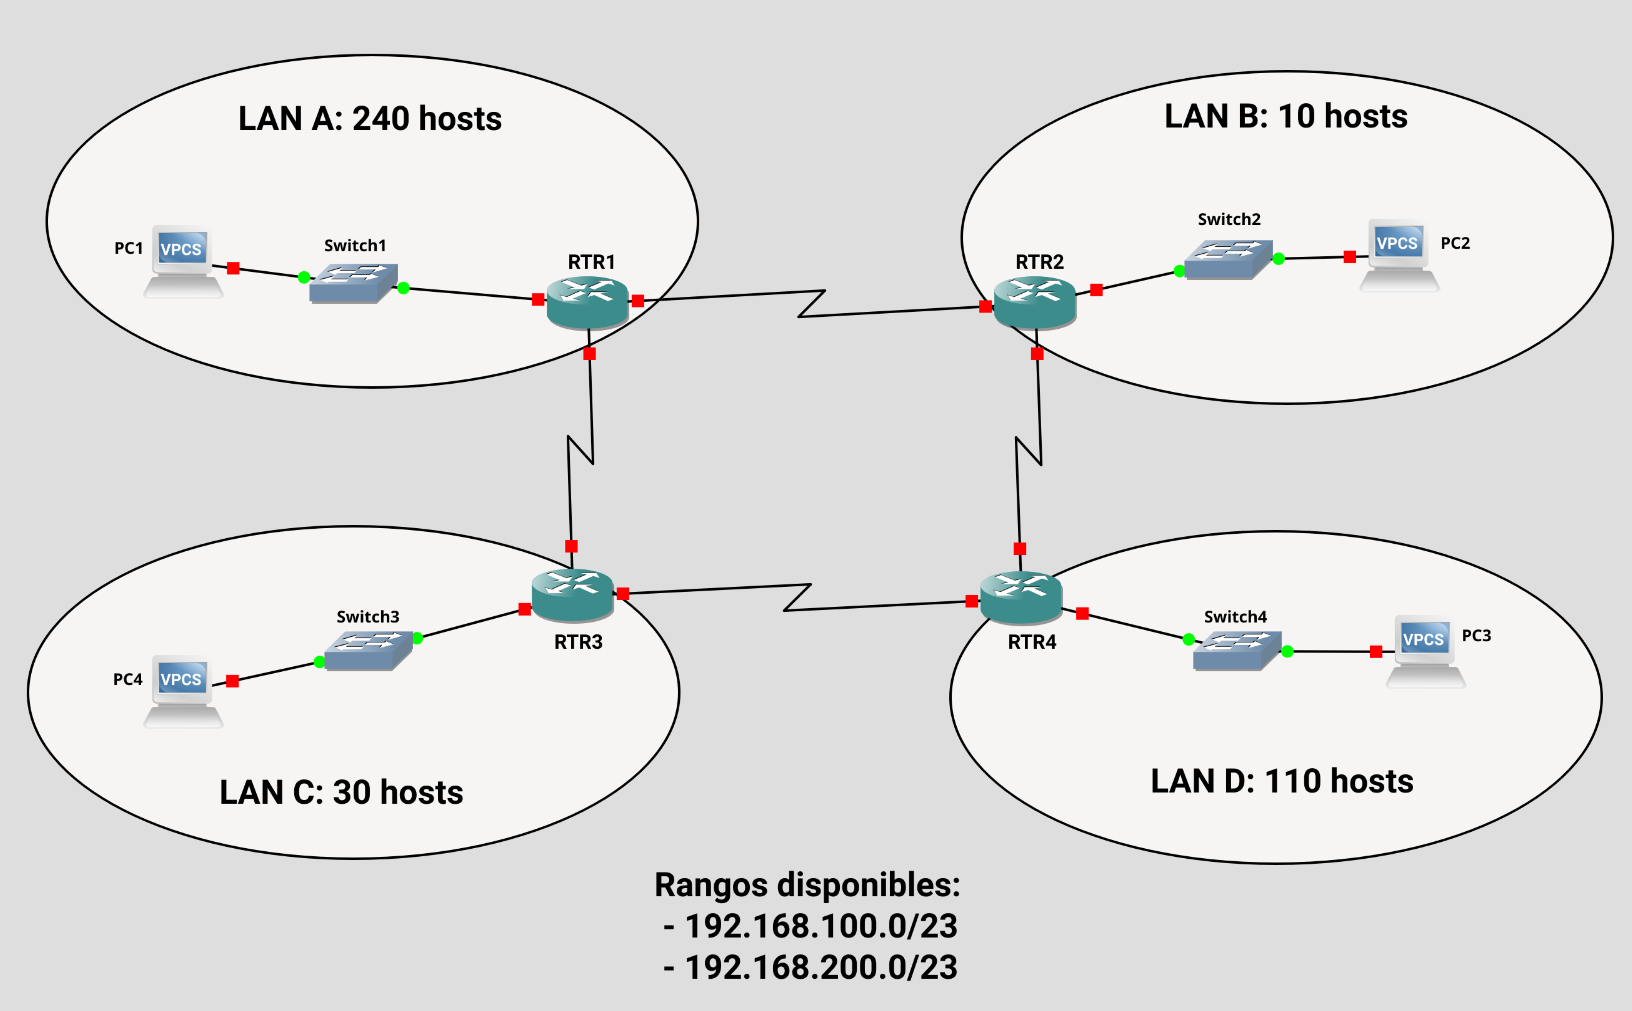
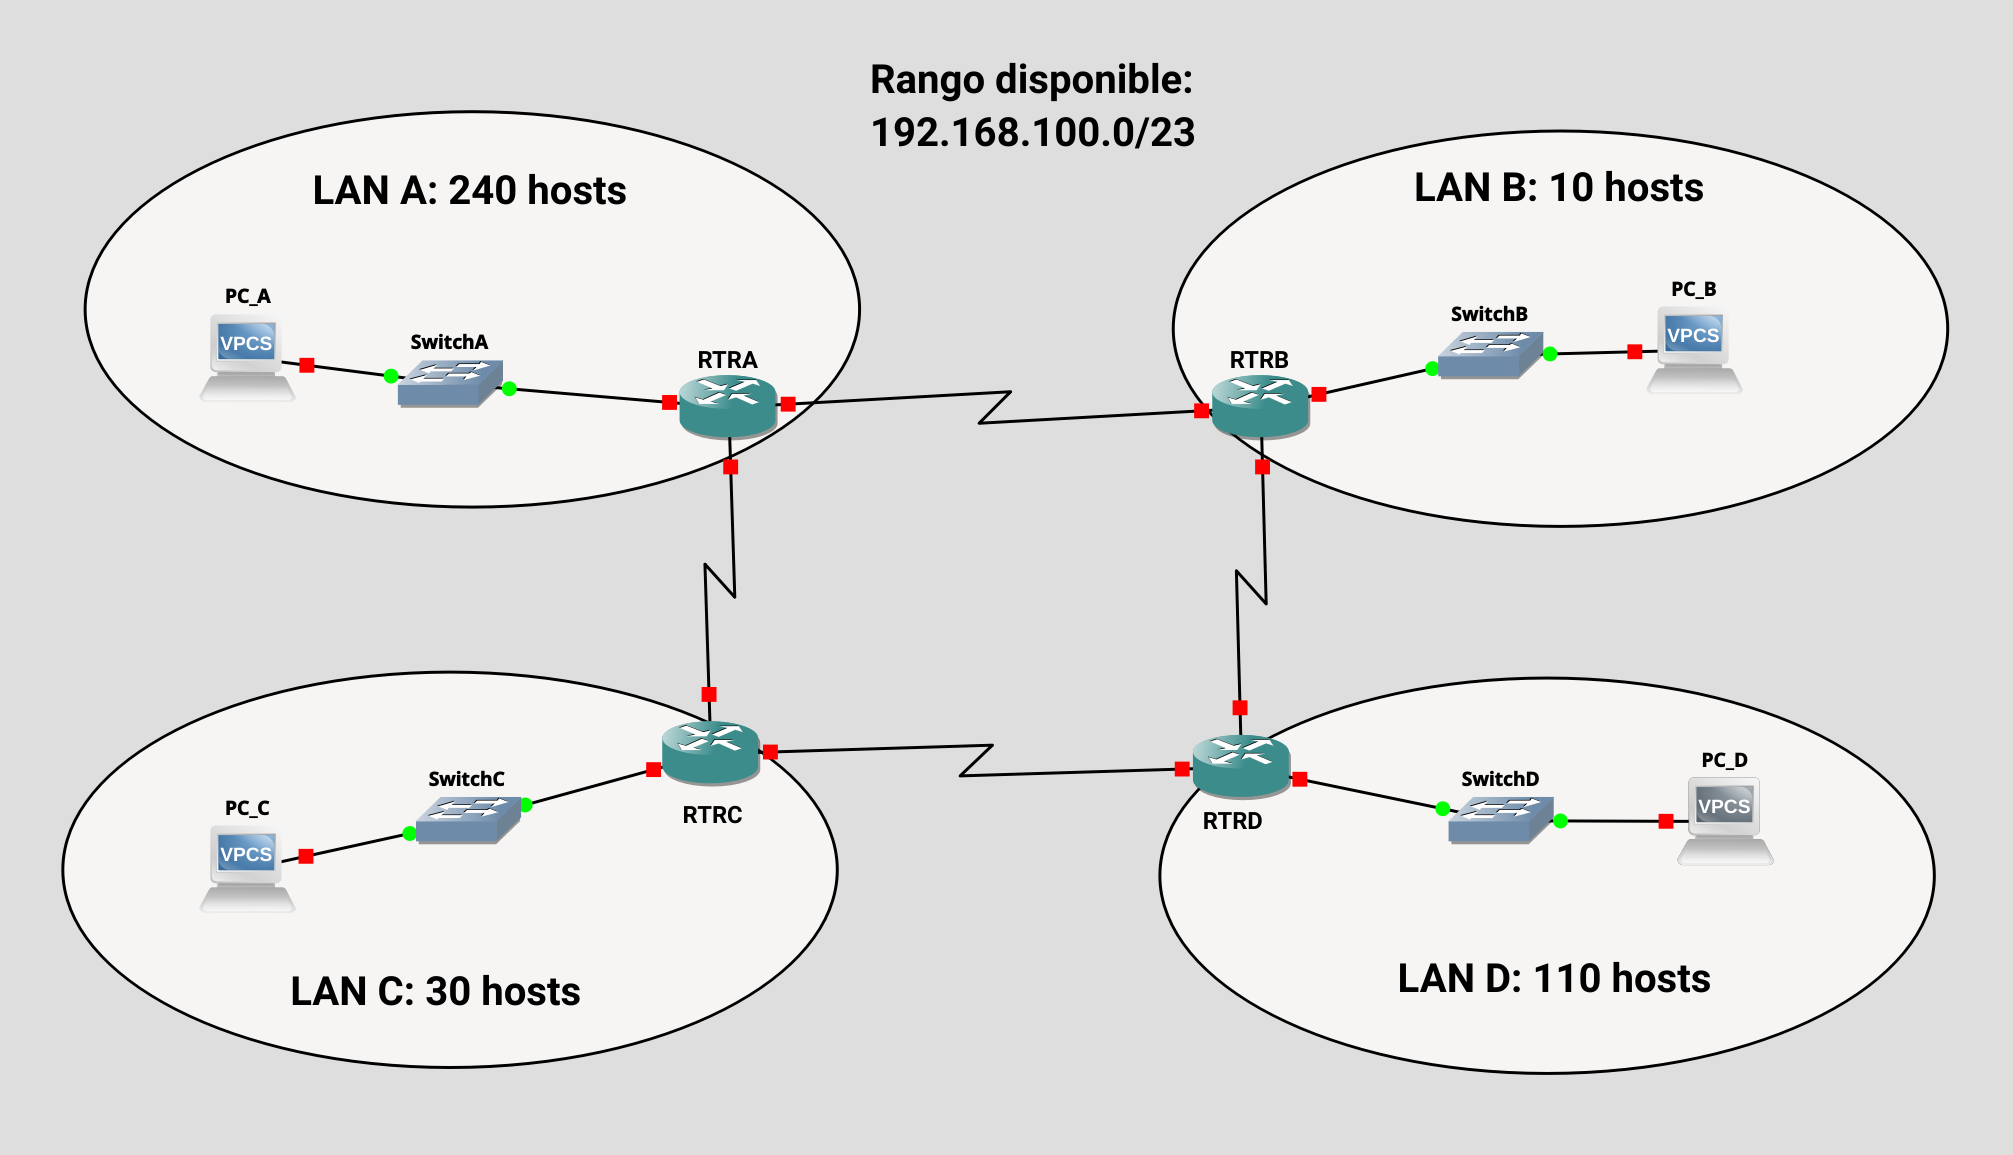
con lab 4

diff --git a/Laboratorio 4/Laboratorio4_Red.tex b/Laboratorio 4/Laboratorio4_Red.tex
@@ -9,6 +9,7 @@
 \usepackage{graphicx}
 \usepackage{fancyhdr}
 \usepackage{minted}
+\usepackage{enumitem}
 \usepackage[svgnames]{xcolor}
 \setminted{style=default,bgcolor=Gainsboro}
 \usepackage[allcolors={DarkSlateBlue}, colorlinks]{hyperref}
@@ -17,48 +18,55 @@
 \fancyhead[L]{\includegraphics[height=35px]{../figuras/logoort.png}}
 \fancyhead[R]{Facultad de Ingeniería \\ Cátedra de Redes y Sistemas de Comunicación}
 \fancyfoot[R]{Página \thepage}
-\fancyfoot[L]{Redes de Datos -- Laboratorio 3}
+\fancyfoot[L]{Redes -- Laboratorio 4}
 \renewcommand{\footrulewidth}{0.2pt}
 \renewcommand{\headrulewidth}{0.2pt}
 
 \pagestyle{fancy}
 
 
-\title{\bf Redes de Datos\\Laboratorio 4 -- Capa de Red\\ Direccionamiento y ruteo estático}
+\title{\bf Redes\\Laboratorio 4 -- Capa de Red\\ Direccionamiento y ruteo estático}
 \author{\bf Universidad ORT Uruguay}
-\date{\bf Curso 2025}
+\date{\bf Curso 2026}
 
 \begin{document}
 
 \maketitle
 \thispagestyle{fancy}
 
-En este laboratorio trabajaremos a nivel de Capa de Red, utilizando equipos Cisco disponibles en el Laboratorio. Los objetivos son:
+En este laboratorio trabajaremos a nivel de Capa de Red, configurando de forma completa la asignación de direcciones y ruteo interno estático de una red de tipo empresarial. En particular los objetivos son:
 
 \begin{itemize}
     \item Realizar una asignación de direcciones de una topología dada.
     \item Configurar dicha asignación en los equipos, tanto routers como hosts, de manera de implementar la capa de red.
     \item Realizar la configuración de rutas estáticas para lograr conectividad en toda la topología.
+    \item Probar dicha conectividad mediante paquetes de prueba ICMP usando el comando \texttt{ping <IP destino>}.
 \end{itemize}
 
-Para ello, disponemos en el laboratorio de Routers pre-cableados en topología de anillo, utilizando enlaces \textbf{seriales} punto a punto. Los routers disponen además de interfaces \textbf{Ethernet} (FastEthernet o GigabitEthernet, según el modelo). Sin embargo, los routers inicialmente tienen todas sus interfaces apagadas y sin configurar.
+La práctica puede realizarse de dos maneras:
 
-La topología del laboratorio es la siguiente:
+\begin{enumerate}[label={\bf \alph*)}]
+    \item Utilizando los equipos Cisco disponibles en el laboratorio de Redes. Dichos Routers se encuentran pre-cableados en topología de anillo, utilizando enlaces \textbf{seriales} punto a punto. Los routers disponen además de interfaces \textbf{Ethernet} (FastEthernet o GigabitEthernet, según el modelo). Sin embargo, los routers inicialmente tienen todas sus interfaces apagadas y sin configurar (tal como vienen de fábrica). Disponemos de dos anillos de 4 Routers y uno de 3 Routers, así como Switches para implementar las redes locales.
+    
+    En este caso, cada grupo configurará un único Router, así como los equipos conectados directamente al mismo, poniéndose de acuerdo con los restantes equipos del mismo anillo cuál es la configuración correcta de modo de que la red quede coherentemente configurada.
 
-\bigskip
-
-\begin{center}
-    \includegraphics[width=0.85\textwidth]{../figuras/topologia_lab.png}
-\end{center}
-
-Durante la práctica, cada grupo se encargará de configurar \emph{un único router} y su LAN asociada. Sin embargo, debe coordinar con sus compañeros para que la asignación de direcciones y rutas sea \emph{coherente}.
-
-\vfill
+    \item Utilizando el simulador \href{https://www.gns3.com/}{\bf GNS3} que permite emular en una PC de escritorio una topología de red dada, creando máquinas virtuales que emulan el funcionamiento de los Routers y su sistema operativo. Se proveen en la página del curso archivos de tipo \emph{portable GNS3 project} con topologías similares a las de laboratorio. En este caso, el equipo deberá configurar \emph{toda la topología} para que quede funcionando.
+    
+\end{enumerate}
 
 \section{Asignación de direcciones}
 
-Realice una asignación de direcciones completa para las redes de área local de la figura, así como para los enlaces punto a punto entre routers, utilizando el rango provisto. Complete las siguientes tablas
-    
+\subsection{Topología de 4 routers}
+
+\begin{figure}
+    \begin{center}
+    \includegraphics[width=0.95\textwidth]{../figuras/topologia_lab.png}
+    \end{center}
+    \caption{Topología de Red de 4 routers con rangos a asignar.}\label{fig:topologia}
+\end{figure}
+
+Realice una asignación de direcciones completa para las redes de área local de la Figura \ref{fig:topologia}, así como para los enlaces punto a punto entre routers, utilizando el rango provisto. Complete las siguientes tablas
+
     \begin{center}
         \bigskip
         \begin{tabular}{|p{1cm}|p{3cm}|p{3cm}|p{3cm}|p{3cm}|}
@@ -76,25 +84,66 @@ Realice una asignación de direcciones completa para las redes de área local de
         \begin{tabular}{|p{2cm}|p{2.5cm}|p{2.5cm}|p{2.6cm}|p{2.4cm}|p{2.4cm}|}
             \hline
             \textbf{Enlace} & \textbf{Dirección de red} & \textbf{Máscara} & \textbf{Dir. de broadcast} & \textbf{IP Router A} & \textbf{IP Router B} \\ \hline
-            \textbf{RTR1--RTR2} & & & & & \\ \hline
-            \textbf{RTR2--RTR3} & & & & & \\ \hline
-            \textbf{RTR3--RTR4} & & & & & \\ \hline
-            \textbf{RTR4--RTR1} & & & & & \\ \hline
+            \textbf{RTRA--RTRB} & & & & & \\ \hline
+            \textbf{RTRA--RTRC} & & & & & \\ \hline
+            \textbf{RTRB--RTRD} & & & & & \\ \hline
+            \textbf{RTRC--RTRD} & & & & & \\ \hline
         \end{tabular}
     \bigskip
     \end{center}
 
-    Comparta la asignación realizada con el resto de los grupos de su topología de modo de llegar a una asignación coherente.
+\subsection{Topología de 3 routers}
 
-\section{Configuración de interfaces en los routers}
+    Modifique ahora la asignación anterior para el caso en que hay solo 3 routers, asumiendo que la LAN D y la LAN B son una única LAN con 120 hosts.
 
-Para conectarse a los routers, debe accederse a los mismos mediante su \emph{consola de configuración}. Típicamente esto se realiza mediante un cable dedicado y una conexión serial. Para simplificar este proceso, en el laboratorio se dispone de un equipo Cisco remotizador de consolas. Para acceder al Router RTRX, se debe ingresar via \texttt{telnet} al remotizador, y luego acceder a la consola del Router deseado mediante:
+        \begin{center}
+        \bigskip
+        \begin{tabular}{|p{1cm}|p{3cm}|p{3cm}|p{3cm}|p{3cm}|}
+            \hline
+            \textbf{Red} & \textbf{Dirección de red} & \textbf{Máscara} & \textbf{Dir. de broadcast} & \textbf{IP Router} \\ \hline
+            \textbf{LAN A} & & & & \\ \hline
+            \textbf{LAN B} & & & & \\ \hline
+            \textbf{LAN C} & & & & \\ \hline
+        \end{tabular}
+    \end{center}
+
+    \bigskip
+    \begin{center}
+        \begin{tabular}{|p{2cm}|p{2.5cm}|p{2.5cm}|p{2.6cm}|p{2.4cm}|p{2.4cm}|}
+            \hline
+            \textbf{Enlace} & \textbf{Dirección de red} & \textbf{Máscara} & \textbf{Dir. de broadcast} & \textbf{IP Router A} & \textbf{IP Router B} \\ \hline
+            \textbf{RTRA--RTRB} & & & & & \\ \hline
+            \textbf{RTRA--RTRC} & & & & & \\ \hline
+            \textbf{RTRB--RTRC} & & & & & \\ \hline
+        \end{tabular}
+    \bigskip
+    \end{center}
+
+
+\textbf{Nota:} antes de continuar, si está trabajando con los equipos del laboratorio, comparta la asignación realizada con el resto de los grupos de su topología de modo de llegar a una asignación coherente. Compare en particular \textbf{cuál es su número de router y cuáles son sus interfaces} con el \textbf{esquema de conexión} disponible en el rack del laboratorio.
+
+
+\section{Acceso a la consola de configuración}
+
+Para conectarse a los routers, debe accederse a los mismos mediante su \emph{consola de configuración}. Típicamente esto se realiza mediante un cable dedicado y una conexión serial, que permite comunicarse con el sistema operativo del Router.
+
+\begin{enumerate}[label={\bf \alph*)}]
+\item En el caso de los equipos de laboratorio, para simplificar este proceso, se dispone de un equipo Cisco remotizador de consolas. Para acceder al Router RTRX, se debe ingresar via \texttt{telnet} al remotizador, y luego acceder a la consola del Router deseado mediante:
 \begin{minted}{batch}
 > telnet 172.20.20.24
 > Login: grupoX
 > Password: ort
 \end{minted}
 donde X es el no. de router.
+
+\item En el caso de \textbf{GNS3}, luego de importar el projecto portable, aparecen toda la topología ya conectada, incluyendo Routers y PC virtuales. En este caso se debe:
+ \begin{enumerate}[label=\arabic*.]
+    \item Iniciar la simulación los equipos (ícono de Play).
+    \item Hacer click-derecho y abrir una consola al equipo que se desea configurar.
+ \end{enumerate}
+\end{enumerate}
+
+\section{Configuración de interfaces de los routers}
 
 \begin{enumerate}
     \item Configure las interfaces del Router siguiendo la asignación elegida. Tenga presente el nombre de las interfaces que los conectan con Routers vecinos, disponibles en el rack del laboratorio. Puede ayudarse de los comandos en el apéndice.
@@ -107,7 +156,7 @@ donde X es el no. de router.
 
 \begin{enumerate}
     \item Implemente la red local conectando un Switch a la interfaz Ethernet del router. Verifique que ahora la misma queda activa.
-    \item Conecte su máquina del laboratorio a dicha red mediante un patch-cord adecuado, utilizando la tarjeta de red secundaria de la máquina.
+    \item Si está trabajando en el laboratorio, conecte su máquina del laboratorio a dicha red mediante un patch-cord adecuado, utilizando la tarjeta de red secundaria de la máquina.
     \item Configure la dirección IP, máscara y puerta de enlace predeterminada de su máquina para que quede conectada a la LAN adecuada.
     \item Chequee conectividad con el Router mediante \texttt{ping}. ¿Puede llegar más allá?
 \end{enumerate}
@@ -142,6 +191,17 @@ donde X es el no. de router.
     \item Asignar IP de broadcast: \mintinline{batch}{RTRX(config-if)# ip broadcast-address <IP>}
     \item Crear una ruta estática: \mintinline{batch}{RTRX(config)# ip route <dir. Red> <máscara> <nextHop>}
     \item Salir de un submenú: \mintinline{batch}{RTRX(config)# exit}
-
+    \item Realizar un \texttt{ping}: \mintinline{batch}{RTRX# ping <IP_destino>}
 \end{itemize}
+
+\section{Comandos GNS3 virtual PCs}
+
+\begin{itemize}
+    \item Configurar la IP de una PC:
+\mintinline{batch}{PC_X> ip <direccion> <mascara> <ruta_por_defecto>}
+    \item Mostrar la configuración actual:
+    \mintinline{batch}{PC_X> show ip}
+    \item Realizar un \texttt{ping}: \mintinline{batch}{PC_X> ping <IP_destino>}
+\end{itemize}
+
 \end{document}